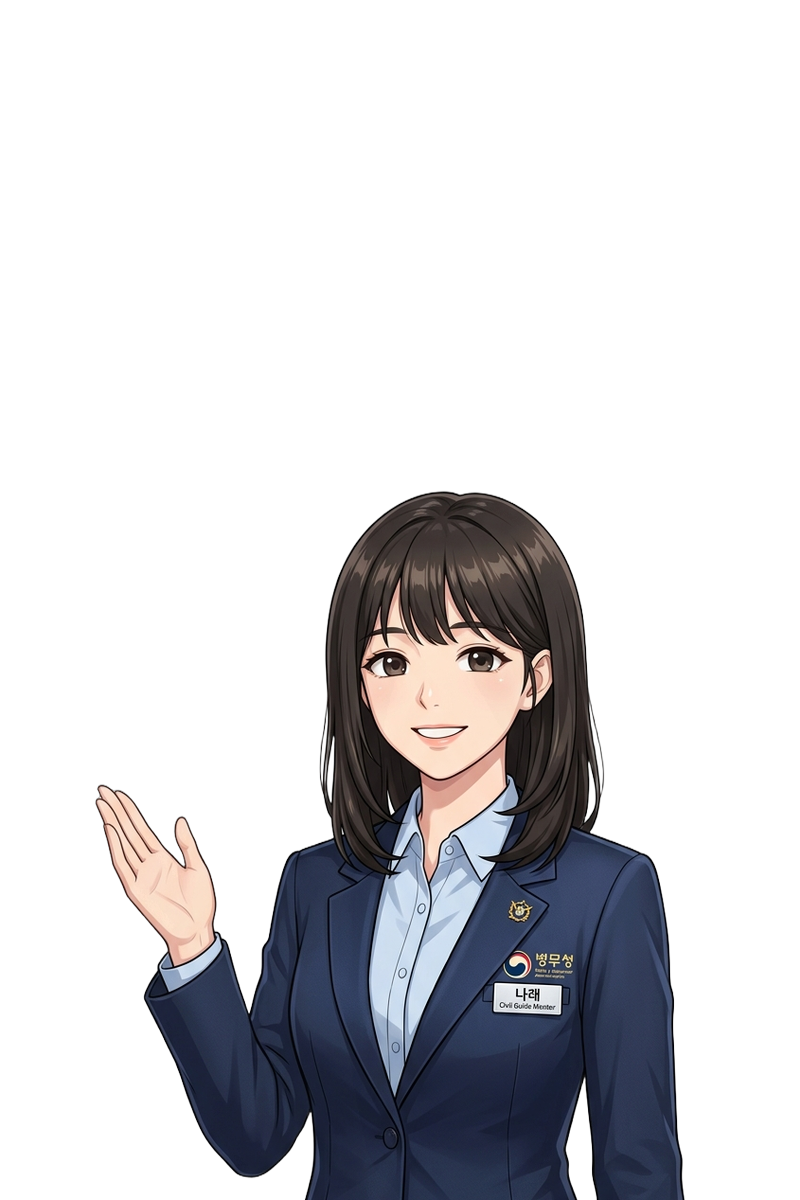
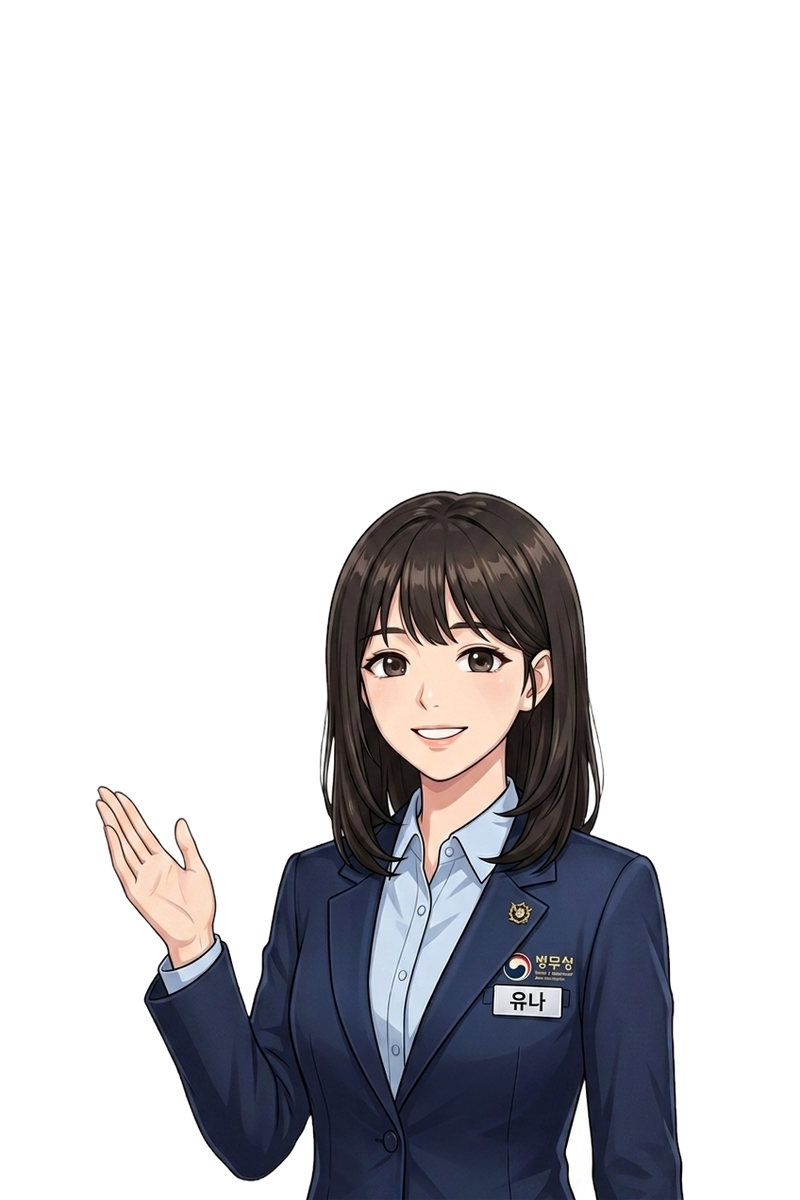
Feat: 여성 가이드 멘토 캐릭터 '나래' -> '유나'로 명칭 및 일러스트 전면 교체 (AI 명찰 생성 적용)

diff --git a/index.html b/index.html
@@ -1110,20 +1110,20 @@
           </div>
         </div>
 
-        <!-- 2. 나래 -->
-        <div id="guide-card-narae" onclick="selectGuide('narae')" class="group p-3 sm:p-3.5 rounded-xl sm:rounded-2xl bg-slate-900/90 hover:bg-slate-800/90 border-2 transition cursor-pointer flex flex-col gap-2">
+        <!-- 2. 유나 -->
+        <div id="guide-card-yuna" onclick="selectGuide('yuna')" class="group p-3 sm:p-3.5 rounded-xl sm:rounded-2xl bg-slate-900/90 hover:bg-slate-800/90 border-2 transition cursor-pointer flex flex-col gap-2">
           <div class="flex items-center justify-between gap-3">
             <div class="flex items-center gap-3.5">
               <div class="w-14 h-16 sm:w-16 sm:h-20 flex items-center justify-center shrink-0">
-                <img src="assets/narae_card.png" alt="나래" class="h-full w-auto object-contain drop-shadow-lg group-hover:scale-105 transition">
+                <img src="assets/yuna_card.png" alt="유나" class="h-full w-auto object-contain drop-shadow-lg group-hover:scale-105 transition">
               </div>
               <div>
-                <h4 class="font-black text-sm sm:text-base text-white">나래</h4>
+                <h4 class="font-black text-sm sm:text-base text-white">유나</h4>
                 <p class="text-[11px] sm:text-xs text-slate-300 mt-0.5 truncate">차분하고 세심하게 챙겨주는 안심 멘토</p>
               </div>
             </div>
             <div class="flex items-center gap-2 shrink-0">
-              <button id="btn-preview-settings-narae" type="button" onclick="event.stopPropagation(); previewGuideVoice('narae');" class="px-2.5 py-1.5 rounded-lg bg-rose-600/20 hover:bg-rose-600/40 text-rose-300 border border-rose-500/30 flex items-center gap-1 font-bold text-xs cursor-pointer transition">
+              <button id="btn-preview-settings-yuna" type="button" onclick="event.stopPropagation(); previewGuideVoice('yuna');" class="px-2.5 py-1.5 rounded-lg bg-rose-600/20 hover:bg-rose-600/40 text-rose-300 border border-rose-500/30 flex items-center gap-1 font-bold text-xs cursor-pointer transition">
                 <i data-lucide="volume-2" class="w-3.5 h-3.5"></i> <span>미리듣기</span>
               </button>
               <span class="guide-check-indicator w-5 h-5 rounded-full border border-slate-600 flex items-center justify-center shrink-0 text-rose-400"></span>
@@ -1196,8 +1196,8 @@
         return;
       }
 
-      // 가이드 캐릭터 스프라이트 동적 치환 (나래/서준 선택 시 힘찬이 스프라이트 자동 치환)
-      if (charPath && (charPath.includes('himchan') || charPath.includes('narae') || charPath.includes('seojun'))) {
+      // 가이드 캐릭터 스프라이트 동적 치환 (유나/나래/서준 선택 시 힘찬이 스프라이트 자동 치환)
+      if (charPath && (charPath.includes('himchan') || charPath.includes('yuna') || charPath.includes('narae') || charPath.includes('seojun'))) {
         const guideId = (typeof userData !== 'undefined' && userData.selectedGuide) || 'himchan';
         if (typeof resolveGuideAssets === 'function') {
           const res = resolveGuideAssets(charPath, '', '', guideId);
@@ -1428,6 +1428,7 @@
     }
 
     function selectGuide(guideId, silent = false, refreshDialogue = true) {
+      if (guideId === 'narae') guideId = 'yuna';
       if (typeof GUIDE_PERSONAS === 'undefined' || !GUIDE_PERSONAS[guideId]) guideId = 'himchan';
       userData.selectedGuide = guideId;
       try {
@@ -1440,7 +1441,7 @@
       if (refreshDialogue && currentDialogueList && currentDialogueList.length > 0 && currentDialogueIdx < currentDialogueList.length) {
         const cur = currentDialogueList[currentDialogueIdx];
         const spk = cur.speaker || '';
-        const isGuide = spk.includes('힘찬이') || spk.includes('Himchan') || spk.includes('나래') || spk.includes('Narae') || spk.includes('서준') || spk.includes('Seojun') || spk.includes('가이드') || spk.includes('Guide') || (cur.char && (cur.char.includes('himchan') || cur.char.includes('narae') || cur.char.includes('seojun')));
+        const isGuide = spk.includes('힘찬이') || spk.includes('Himchan') || spk.includes('유나') || spk.includes('Yuna') || spk.includes('나래') || spk.includes('Narae') || spk.includes('서준') || spk.includes('Seojun') || spk.includes('가이드') || spk.includes('Guide') || (cur.char && (cur.char.includes('himchan') || cur.char.includes('yuna') || cur.char.includes('narae') || cur.char.includes('seojun')));
         if (isGuide) {
           playDialogueChunk();
         }
@@ -1452,6 +1453,7 @@
     }
 
     function showGuideToast(guideId) {
+      if (guideId === 'narae') guideId = 'yuna';
       const g = (typeof GUIDE_PERSONAS !== 'undefined' && GUIDE_PERSONAS[guideId]) ? GUIDE_PERSONAS[guideId] : { name: '힘찬이' };
       const toast = document.createElement('div');
       toast.className = 'fixed top-14 sm:top-16 left-1/2 -translate-x-1/2 z-50 px-3.5 py-2 rounded-xl bg-slate-900/95 border border-blue-500/60 text-white text-xs font-bold shadow-2xl flex items-center gap-2 animate-in fade-in slide-in-from-top-2 duration-200';
@@ -1465,12 +1467,14 @@
     }
 
     function updateSettingsModalUI() {
-      const curGuide = userData.selectedGuide || 'himchan';
-      ['himchan', 'narae', 'seojun'].forEach(id => {
+      let curGuide = userData.selectedGuide || 'himchan';
+      if (curGuide === 'narae') curGuide = 'yuna';
+      ['himchan', 'yuna', 'seojun', 'narae'].forEach(id => {
         const card = document.getElementById(`guide-card-${id}`);
         if (!card) return;
         const ind = card.querySelector('.guide-check-indicator');
-        if (id === curGuide) {
+        const isSelected = (id === curGuide) || (id === 'yuna' && curGuide === 'narae') || (id === 'narae' && curGuide === 'yuna');
+        if (isSelected) {
           card.classList.remove('border-slate-800', 'bg-slate-900/90');
           card.classList.add('border-blue-500', 'bg-blue-950/30', 'ring-1', 'ring-blue-500/50');
           if (ind) {
@@ -1877,7 +1881,7 @@
 
         const spk = speaker || '';
         const curGuide = userData.selectedGuide || 'himchan';
-        const isGuideSpeaker = spk.includes('힘찬이') || spk.includes('Himchan') || spk.includes('나래') || spk.includes('Narae') || spk.includes('서준') || spk.includes('Seojun') || spk.includes('가이드') || spk.includes('Guide');
+        const isGuideSpeaker = spk.includes('힘찬이') || spk.includes('Himchan') || spk.includes('유나') || spk.includes('Yuna') || spk.includes('나래') || spk.includes('Narae') || spk.includes('서준') || spk.includes('Seojun') || spk.includes('가이드') || spk.includes('Guide');
 
         const pickVoice = (voices, keywords) => {
           for (const kw of keywords) {
@@ -1895,7 +1899,7 @@
         if (isEnglish) {
           const enVoices = availableVoices.filter(v => v.lang.startsWith('en'));
           if (isGuideSpeaker) {
-            if (curGuide === 'narae') {
+            if (curGuide === 'yuna' || curGuide === 'narae') {
               utterance.voice = pickVoice(enVoices, ['jenny', 'samantha', 'victoria', 'female']) || enVoices[0] || null;
               utterance.rate = 1.0;
               utterance.pitch = 1.1;
@@ -1929,7 +1933,7 @@
           const maleVoice = pickVoice(koVoices, ['injoon', '인준', 'male', '남성', 'bongjin', '봉진', 'gookmin', '국민', 'yunho', '윤호']);
           
           if (isGuideSpeaker) {
-            if (curGuide === 'narae') {
+            if (curGuide === 'yuna' || curGuide === 'narae') {
               utterance.voice = femaleVoice || koVoices[0] || null;
               utterance.rate = 1.0;
               utterance.pitch = 1.15;
@@ -2247,7 +2251,7 @@
       const guideId = userData.selectedGuide || 'himchan';
       const spk = item.speaker || '';
       const spkEn = item.speaker_en || '';
-      const isGuide = spk.includes('힘찬이') || spk.includes('Himchan') || spk.includes('나래') || spk.includes('Narae') || spk.includes('서준') || spk.includes('Seojun') || spk.includes('가이드') || spk.includes('Guide') || (item.char && (item.char.includes('himchan') || item.char.includes('narae') || item.char.includes('seojun')));
+      const isGuide = spk.includes('힘찬이') || spk.includes('Himchan') || spk.includes('유나') || spk.includes('Yuna') || spk.includes('나래') || spk.includes('Narae') || spk.includes('서준') || spk.includes('Seojun') || spk.includes('가이드') || spk.includes('Guide') || (item.char && (item.char.includes('himchan') || item.char.includes('yuna') || item.char.includes('narae') || item.char.includes('seojun')));
 
       let resolvedChar = item.char;
       let resolvedSpk = item.speaker;
@@ -3155,9 +3159,9 @@
       if (gid === 'himchan') {
         askMsgKo = "충성! 저 힘찬이와 함께하기로 결정하셨군요! 든든하게 끝까지 함께하겠습니다, {name} 님!\n\n그럼 먼저 검사 일정을 확인하고 계획하기 위해 관할 지방병무청을 선택해 주시겠습니까?";
         askMsgEn = "Salute! You chose to journey with me, Himchan! I'll stand by you all the way, {name}!\n\nShall we first select your regional Military Manpower Administration office to check exam schedules?";
-      } else if (gid === 'narae') {
-        askMsgKo = "반가워요, {name} 님! 멘토 나래가 검사 마지막까지 차분하고 편안하게 안내해 드릴게요 :)\n\n그럼 먼저 검사 일정을 확인하고 계획하기 위해 관할 지방병무청을 선택해 주시겠습니까?";
-        askMsgEn = "Nice to meet you, {name}! I'm mentor Narae, and I'll comfortably guide you through every step :)\n\nShall we first select your regional Military Manpower Administration office to check exam schedules?";
+      } else if (gid === 'yuna' || gid === 'narae') {
+        askMsgKo = "반가워요, {name} 님! 멘토 유나가 검사 마지막까지 차분하고 편안하게 안내해 드릴게요 :)\n\n그럼 먼저 검사 일정을 확인하고 계획하기 위해 관할 지방병무청을 선택해 주시겠습니까?";
+        askMsgEn = "Nice to meet you, {name}! I'm mentor Yuna, and I'll comfortably guide you through every step :)\n\nShall we first select your regional Military Manpower Administration office to check exam schedules?";
       } else if (gid === 'seojun') {
         askMsgKo = "선택해 주셔서 감사합니다, {name} 님. 스마트 멘토 서준입니다. 필요한 모든 절차를 정확하고 꼼꼼하게 도와드리겠습니다.\n\n그럼 먼저 검사 일정을 확인하고 계획하기 위해 관할 지방병무청을 선택해 주시겠습니까?";
         askMsgEn = "Thank you for choosing me, {name}. I'm smart mentor Seojun. I will guide you through all procedures with precision.\n\nShall we first select your regional Military Manpower Administration office to check exam schedules?";
@@ -3252,17 +3256,17 @@
                   </div>
                 </div>
 
-                <!-- 2. 나래 카드 슬라이드 -->
+                <!-- 2. 유나 카드 슬라이드 -->
                 <div class="px-1 md:px-0">
-                  <div onclick="playBeep(750, 'triangle', 0.05); confirmGuideAndProceed('narae');" class="group relative p-3.5 sm:p-5 rounded-2xl bg-slate-900/95 hover:bg-slate-800/95 border-2 border-slate-700/80 hover:border-blue-400 shadow-2xl flex flex-col justify-between gap-3 transition duration-200 cursor-pointer hover:scale-[1.015]">
+                  <div onclick="playBeep(750, 'triangle', 0.05); confirmGuideAndProceed('yuna');" class="group relative p-3.5 sm:p-5 rounded-2xl bg-slate-900/95 hover:bg-slate-800/95 border-2 border-slate-700/80 hover:border-blue-400 shadow-2xl flex flex-col justify-between gap-3 transition duration-200 cursor-pointer hover:scale-[1.015]">
                     <div class="space-y-2.5 sm:space-y-3">
                       <!-- 테두리 없는 카드 절반 크기 대형 캐릭터 이미지 -->
                       <div class="h-40 sm:h-52 flex items-center justify-center overflow-hidden">
-                        <img src="assets/narae_card.png" alt="나래" class="h-full w-auto object-contain drop-shadow-2xl group-hover:scale-105 transition duration-200">
+                        <img src="assets/yuna_card.png" alt="유나" class="h-full w-auto object-contain drop-shadow-2xl group-hover:scale-105 transition duration-200">
                       </div>
                       <!-- 이름 & 한줄 소개 -->
                       <div class="text-center space-y-1">
-                        <h4 class="font-black text-base sm:text-lg text-white group-hover:text-rose-300 transition">나래</h4>
+                        <h4 class="font-black text-base sm:text-lg text-white group-hover:text-rose-300 transition">유나</h4>
                         <p class="text-[11px] sm:text-xs text-slate-300 truncate">
                           ${isEn ? 'Calm & caring mentor guiding you kindly' : '차분하고 세심하게 챙겨주는 안심 멘토'}
                         </p>
@@ -3271,11 +3275,11 @@
 
                     <!-- 하단 버튼부 -->
                     <div class="space-y-2 pt-2 border-t border-slate-800/80">
-                      <button id="btn-preview-intro-narae" type="button" onclick="event.stopPropagation(); previewGuideVoice('narae');" class="w-full py-2 px-2 rounded-xl bg-rose-600/20 hover:bg-rose-600/30 text-rose-300 border border-rose-500/30 text-xs font-bold flex items-center justify-center gap-1.5 transition cursor-pointer">
+                      <button id="btn-preview-intro-yuna" type="button" onclick="event.stopPropagation(); previewGuideVoice('yuna');" class="w-full py-2 px-2 rounded-xl bg-rose-600/20 hover:bg-rose-600/30 text-rose-300 border border-rose-500/30 text-xs font-bold flex items-center justify-center gap-1.5 transition cursor-pointer">
                         <i data-lucide="volume-2" class="w-4 h-4"></i> <span>${isEn ? 'Voice Preview' : '목소리 미리듣기'}</span>
                       </button>
-                      <button type="button" onclick="event.stopPropagation(); playBeep(750, 'triangle', 0.05); confirmGuideAndProceed('narae');" class="w-full py-2.5 px-3 rounded-xl bg-gradient-to-r from-rose-600 to-pink-600 hover:from-rose-500 hover:to-pink-500 text-white font-black text-xs sm:text-sm transition flex items-center justify-center gap-1.5 shadow-lg shadow-rose-600/30 cursor-pointer">
-                        <span>${isEn ? 'Select & Start' : '나래와 함께 시작'}</span> <i data-lucide="arrow-right" class="w-4 h-4"></i>
+                      <button type="button" onclick="event.stopPropagation(); playBeep(750, 'triangle', 0.05); confirmGuideAndProceed('yuna');" class="w-full py-2.5 px-3 rounded-xl bg-gradient-to-r from-rose-600 to-pink-600 hover:from-rose-500 hover:to-pink-500 text-white font-black text-xs sm:text-sm transition flex items-center justify-center gap-1.5 shadow-lg shadow-rose-600/30 cursor-pointer">
+                        <span>${isEn ? 'Select & Start' : '유나와 함께 시작'}</span> <i data-lucide="arrow-right" class="w-4 h-4"></i>
                       </button>
                     </div>
                   </div>

diff --git a/scenario.js b/scenario.js
@@ -29,10 +29,10 @@ const GUIDE_PERSONAS = {
     sampleQuote: "충성! 열혈 멘토 힘찬이입니다! 오늘 검사도 파이팅!",
     sampleQuote_en: "Salute! I'm your energetic guide Himchan! Let's do this!"
   },
-  narae: {
-    id: "narae",
-    name: "나래",
-    name_en: "Narae",
+  yuna: {
+    id: "yuna",
+    name: "유나",
+    name_en: "Yuna",
     role: "병무청 친절상담관 & 다정다감 AI 멘토",
     role_en: "MMA Counselor & Warm AI Guide",
     tag: "다정하고 따뜻한 안심 멘토",
@@ -47,12 +47,37 @@ const GUIDE_PERSONAS = {
     themeBorder: "border-rose-500",
     themeBg: "bg-rose-950/40",
     sprites: {
-      default: "assets/narae.png",
-      smile: "assets/narae_smile.png",
-      cheer: "assets/narae_smile.png"
+      default: "assets/yuna.png",
+      smile: "assets/yuna_smile.png",
+      cheer: "assets/yuna_smile.png"
     },
-    sampleQuote: "안녕하세요! 안심 멘토 나래입니다. 편안하게 따라와 주세요 :)",
-    sampleQuote_en: "Hello! I'm Narae, your friendly counselor. Follow me comfortably!"
+    sampleQuote: "안녕하세요! 안심 멘토 유나입니다. 편안하게 따라와 주세요 :)",
+    sampleQuote_en: "Hello! I'm Yuna, your friendly counselor. Follow me comfortably!"
+  },
+  narae: {
+    id: "yuna",
+    name: "유나",
+    name_en: "Yuna",
+    role: "병무청 친절상담관 & 다정다감 AI 멘토",
+    role_en: "MMA Counselor & Warm AI Guide",
+    tag: "다정하고 따뜻한 안심 멘토",
+    tag_en: "Warm & Caring Friendly Mentor",
+    desc: "차분하고 따뜻한 어조로 모든 검사 절차를 알기 쉽게 세심하게 챙겨줍니다.",
+    desc_en: "Guides you through each step with a warm, comforting tone and detailed care.",
+    gender: "female",
+    voice: "ko-KR-SunHiNeural",
+    voice_en: "en-US-JennyNeural",
+    plateClass: "from-rose-600 to-pink-700 border-rose-400/40",
+    badgeColor: "bg-rose-500",
+    themeBorder: "border-rose-500",
+    themeBg: "bg-rose-950/40",
+    sprites: {
+      default: "assets/yuna.png",
+      smile: "assets/yuna_smile.png",
+      cheer: "assets/yuna_smile.png"
+    },
+    sampleQuote: "안녕하세요! 안심 멘토 유나입니다. 편안하게 따라와 주세요 :)",
+    sampleQuote_en: "Hello! I'm Yuna, your friendly counselor. Follow me comfortably!"
   },
   seojun: {
     id: "seojun",
@@ -86,12 +111,14 @@ const GUIDE_PERSONAS = {
  */
 function adaptGuideDialogue(rawText, guideId = 'himchan', isEn = false) {
   if (!rawText) return '';
+  if (guideId === 'narae') guideId = 'yuna';
   const g = GUIDE_PERSONAS[guideId] || GUIDE_PERSONAS.himchan;
 
   if (isEn) {
-    if (guideId === 'narae') {
+    if (guideId === 'yuna') {
       return rawText
-        .replace(/Himchan/g, 'Narae')
+        .replace(/Himchan/g, 'Yuna')
+        .replace(/Narae/g, 'Yuna')
         .replace(/Salute!\s*Hello/g, 'Hello')
         .replace(/Let's take on/g, "Let's comfortably go through")
         .replace(/with full confidence!/g, "together with care :)");
@@ -106,10 +133,10 @@ function adaptGuideDialogue(rawText, guideId = 'himchan', isEn = false) {
   }
 
   // 한국어 어조 변환
-  if (guideId === 'narae') {
+  if (guideId === 'yuna') {
     return rawText
-      .replace(/(힘찬이|서준)/g, '나래')
-      .replace(/충성!\s*안녕하십니까\s*\{name\}\s*님,?\s*병무청\s*AI\s*가이드\s*'(힘찬이|나래|서준)'입니다!/g, "안녕하세요 {name} 님! 병무청 AI 멘토 '나래'예요 :)")
+      .replace(/(힘찬이|서준|나래)/g, '유나')
+      .replace(/충성!\s*안녕하십니까\s*\{name\}\s*님,?\s*병무청\s*AI\s*가이드\s*'(힘찬이|나래|유나|서준)'입니다!/g, "안녕하세요 {name} 님! 병무청 AI 멘토 '유나'예요 :)")
       .replace(/충성!\s*안녕하십니까/g, "안녕하세요")
       .replace(/파이팅해 볼까요\?!/g, "천천히 힘을 내어 시작해 볼까요? :)")
       .replace(/파이팅입니다!/g, "함께 힘내봐요 :)")
@@ -130,8 +157,8 @@ function adaptGuideDialogue(rawText, guideId = 'himchan', isEn = false) {
       .replace(/해보겠습니다!/g, "도와드릴게요 :)");
   } else if (guideId === 'seojun') {
     return rawText
-      .replace(/(힘찬이|나래)/g, '서준')
-      .replace(/충성!\s*안녕하십니까\s*\{name\}\s*님,?\s*병무청\s*AI\s*가이드\s*'(힘찬이|나래|서준)'입니다!/g, "반갑습니다, {name} 님. 병무청 스마트 AI 가이드 '서준'입니다.")
+      .replace(/(힘찬이|나래|유나)/g, '서준')
+      .replace(/충성!\s*안녕하십니까\s*\{name\}\s*님,?\s*병무청\s*AI\s*가이드\s*'(힘찬이|나래|유나|서준)'입니다!/g, "반갑습니다, {name} 님. 병무청 스마트 AI 가이드 '서준'입니다.")
       .replace(/충성!\s*안녕하십니까/g, "반갑습니다")
       .replace(/파이팅해 볼까요\?!/g, "원활한 검사를 위해 집중해 주시기 바랍니다.")
       .replace(/파이팅입니다!/g, "다음 절차로 원활하게 진행하겠습니다.")
@@ -157,16 +184,18 @@ function adaptGuideDialogue(rawText, guideId = 'himchan', isEn = false) {
  * 선택된 가이드의 화자명, 스프라이트, 플레이트 클래스 반환
  */
 function resolveGuideAssets(originalChar, originalSpeaker, originalSpeakerEn, guideId = 'himchan') {
+  if (guideId === 'narae') guideId = 'yuna';
   const g = GUIDE_PERSONAS[guideId] || GUIDE_PERSONAS.himchan;
   const isGuideSpeaker = (originalSpeaker && (
     originalSpeaker.includes('힘찬이') || originalSpeaker.includes('Himchan') || 
+    originalSpeaker.includes('유나') || originalSpeaker.includes('Yuna') || 
     originalSpeaker.includes('나래') || originalSpeaker.includes('Narae') || 
     originalSpeaker.includes('서준') || originalSpeaker.includes('Seojun') || 
     originalSpeaker.includes('가이드') || originalSpeaker.includes('Guide')
   ));
   
   const isGuideChar = originalChar && (
-    originalChar.includes('himchan') || originalChar.includes('narae') || originalChar.includes('seojun')
+    originalChar.includes('himchan') || originalChar.includes('yuna') || originalChar.includes('narae') || originalChar.includes('seojun')
   );
 
   if (!isGuideSpeaker && !isGuideChar) {

diff --git a/api/tts.js b/api/tts.js
@@ -16,7 +16,8 @@ const pendingPromises = new Map();
 // 화자별 Microsoft Neural 남성/여성/캐릭터 보이스 설정
 const VOICE_MAP = {
   'himchan': { voice: 'ko-KR-HyunsuMultilingualNeural', rate: '+5%', pitch: '+3Hz' }, // 활기찬 열혈 멘토 힘찬이
-  'narae': { voice: 'ko-KR-SunHiNeural', rate: '+2%', pitch: '+2Hz' },                 // 다정하고 따뜻한 선배 멘토 나래 (여성)
+  'yuna': { voice: 'ko-KR-SunHiNeural', rate: '+2%', pitch: '+2Hz' },                 // 다정하고 따뜻한 선배 멘토 유나 (여성)
+  'narae': { voice: 'ko-KR-SunHiNeural', rate: '+2%', pitch: '+2Hz' },                // 하위 호환
   'seojun': { voice: 'ko-KR-BongJinNeural', rate: '+1%', pitch: '-1Hz' },              // 똑부러지고 스마트한 전우 멘토 서준 (남성)
   'minwoo': { voice: 'ko-KR-InJoonNeural', rate: '+0%', pitch: '-2Hz' },               // 20대 대학생 주인공 인준 (남성)
   'doctor': { voice: 'ko-KR-InJoonNeural', rate: '-3%', pitch: '-6Hz' },               // 차분한 전문의/군의관 (남성)
@@ -25,6 +26,7 @@ const VOICE_MAP = {
   
   // 영어 모드 지원
   'en_himchan': { voice: 'en-US-GuyNeural', rate: '+5%', pitch: '+4Hz' },
+  'en_yuna': { voice: 'en-US-JennyNeural', rate: '+2%', pitch: '+2Hz' },
   'en_narae': { voice: 'en-US-JennyNeural', rate: '+2%', pitch: '+2Hz' },
   'en_seojun': { voice: 'en-US-DavisNeural', rate: '+1%', pitch: '-1Hz' },
   'en_minwoo': { voice: 'en-US-ChristopherNeural', rate: '+0%', pitch: '-2Hz' },
@@ -40,12 +42,13 @@ function getVoiceConfig(speaker = '', lang = 'ko', guide = '') {
   // 1. 가이드(멘토) 화자 판별: 가이드 전용 대사이거나 스피커명에 가이드 관련 명칭이 포함된 경우
   const isGuide = spk.includes('가이드') || spk.includes('guide') || 
                   spk.includes('힘찬이') || spk.includes('himchan') || 
+                  spk.includes('유나') || spk.includes('yuna') || 
                   spk.includes('나래') || spk.includes('narae') || 
                   spk.includes('서준') || spk.includes('seojun');
 
   if (isGuide) {
-    if (spk.includes('나래') || spk.includes('narae') || gd.includes('narae')) {
-      return isEn ? VOICE_MAP.en_narae : VOICE_MAP.narae; // 여성 멘토 나래 (SunHi)
+    if (spk.includes('유나') || spk.includes('yuna') || gd.includes('yuna') || spk.includes('나래') || spk.includes('narae') || gd.includes('narae')) {
+      return isEn ? VOICE_MAP.en_yuna : VOICE_MAP.yuna; // 여성 멘토 유나 (SunHi)
     }
     if (spk.includes('서준') || spk.includes('seojun') || gd.includes('seojun')) {
       return isEn ? VOICE_MAP.en_seojun : VOICE_MAP.seojun; // 남성 스마트 멘토 서준 (BongJin)
